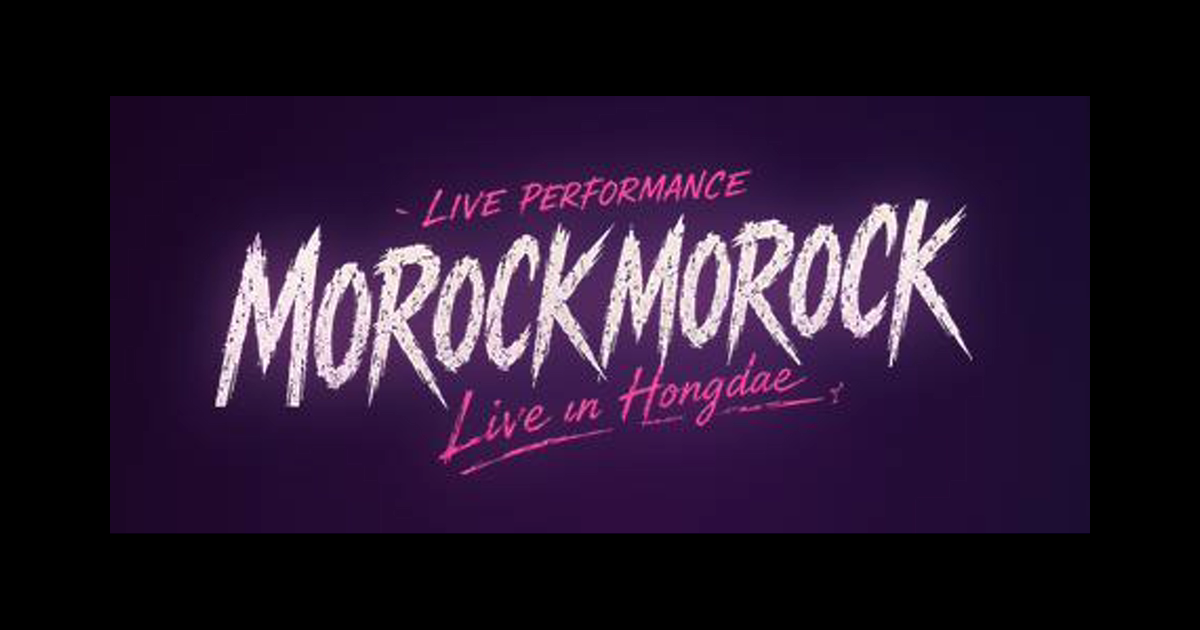
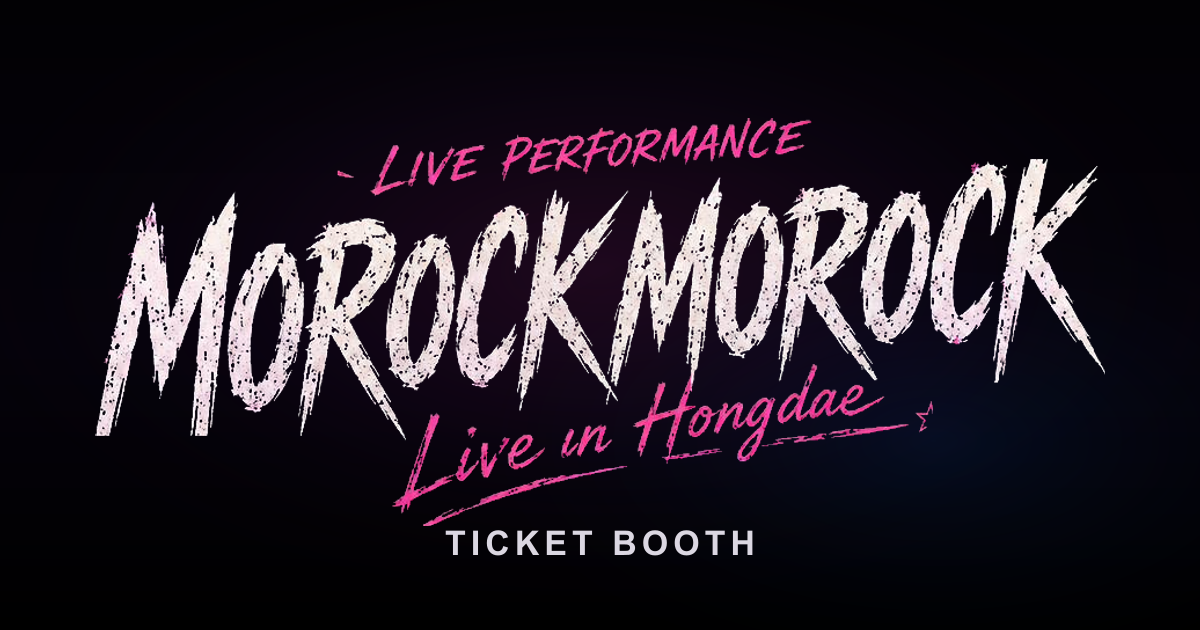
Refresh OG image

diff --git a/index.html b/index.html
@@ -7,12 +7,15 @@
     <meta property="og:type" content="website" />
     <meta property="og:title" content="모락모락 티켓부스" />
     <meta property="og:description" content="모락모락 티켓부스" />
-    <meta property="og:image" content="https://fe1220.github.io/morock-morock/og-image.png" />
+    <meta property="og:image" content="https://fe1220.github.io/morock-morock/og-image-20260618.png" />
+    <meta property="og:image:secure_url" content="https://fe1220.github.io/morock-morock/og-image-20260618.png" />
+    <meta property="og:image:width" content="1200" />
+    <meta property="og:image:height" content="630" />
     <meta property="og:url" content="https://fe1220.github.io/morock-morock/" />
     <meta name="twitter:card" content="summary_large_image" />
     <meta name="twitter:title" content="모락모락 티켓부스" />
     <meta name="twitter:description" content="모락모락 티켓부스" />
-    <meta name="twitter:image" content="https://fe1220.github.io/morock-morock/og-image.png" />
+    <meta name="twitter:image" content="https://fe1220.github.io/morock-morock/og-image-20260618.png" />
     <title>모락모락 티켓부스</title>
     <style>
       html,